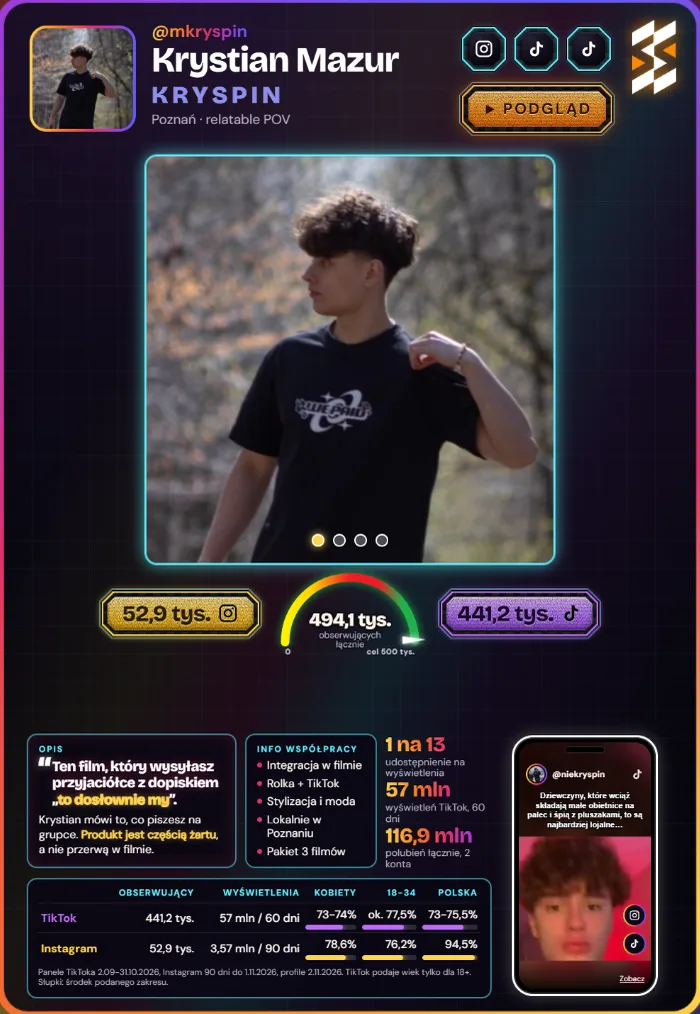
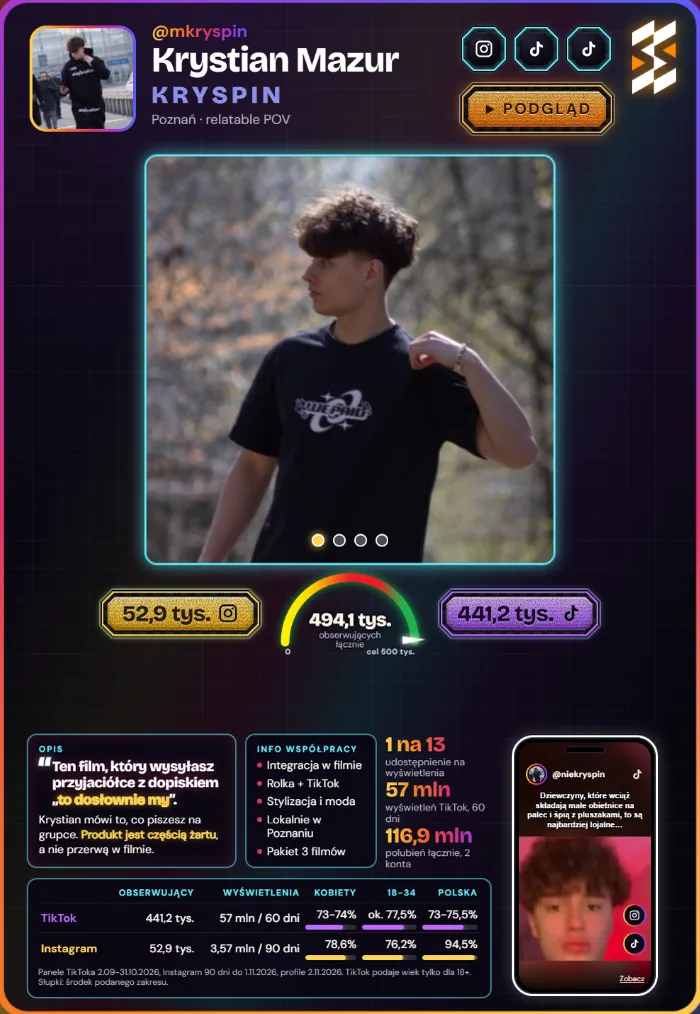
Karta Mazura: w naglowku zdjecie profilowe z Instagrama

diff --git a/krystian-mazur/index.html b/krystian-mazur/index.html
@@ -48,7 +48,7 @@ a{color:inherit}button{font:inherit;color:inherit;background:none;border:0;curso
 
 /* naglowek */
 .ava{left:48px;top:44px;width:150px;height:150px;border-radius:24px;padding:4px;background:var(--ig)}
-.ava b{display:block;width:100%;height:100%;border-radius:20px;background:url(img/avatar.jpg) center/cover no-repeat}
+.ava b{display:block;width:100%;height:100%;border-radius:20px;background:url(img/ig-avatar.jpg) center/cover no-repeat}   /* zdjecie profilowe z Instagrama */
 .who{left:220px;top:38px;width:430px}
 .nick{font-weight:700;font-size:24px;line-height:1.2}
 .name{font-size:50px;line-height:1.04;background:linear-gradient(100deg,#fff 0 38%,#ffd34d 46%,#ff7fb0 50%,#9ef6ff 54%,#fff 62% 100%);background-size:280% 100%;-webkit-background-clip:text;background-clip:text;color:transparent;animation:shim 3.4s linear infinite;white-space:nowrap}
